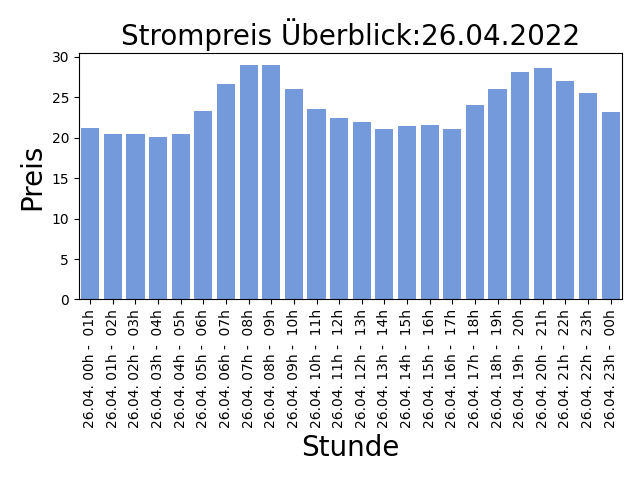
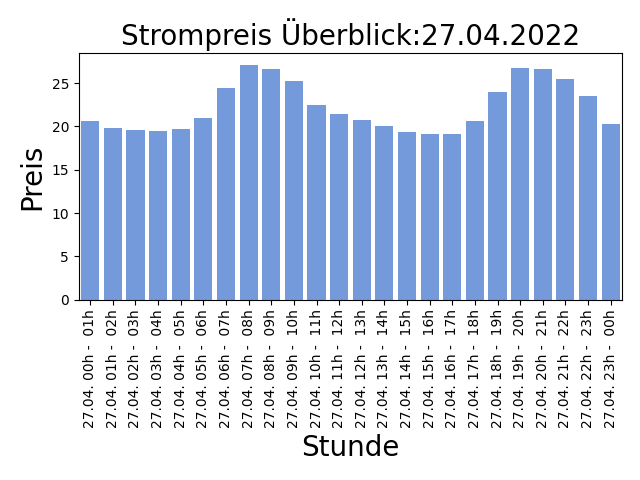
AUTOMATIC UPDATE PRICE LIST: 2022-04-26-14:30:05

diff --git a/README.md b/README.md
@@ -1,5 +1,5 @@
 
-## Strompreise für den 26.04.2022
+## Strompreise für den 27.04.2022
 
 Niedrige Preise deuten auf viel Sonnen und Windenergieerzeugung hin, ein hoher Anteil an erneuerbaren Energien bedeuted weniger CO2 Verbrauch!
 
@@ -7,31 +7,31 @@ Niedrige Preise deuten auf viel Sonnen und Windenergieerzeugung hin, ein hoher A
 
 | Stunde | Preis in Cent/kWh |
 |---|---|
-| 26.04. 00h -  01h | 21.253999999999998 | 
-| 26.04. 01h -  02h | 20.500999999999998 | 
-| 26.04. 02h -  03h | 20.459 | 
-| **26.04. 03h -  04h** | **20.107** | 
-| 26.04. 04h -  05h | 20.416 | 
-| 26.04. 05h -  06h | 23.294999999999998 | 
-| 26.04. 06h -  07h | 26.651999999999997 | 
-| 26.04. 07h -  08h | 29.0 | 
-| 26.04. 08h -  09h | 29.0 | 
-| 26.04. 09h -  10h | 26.048000000000002 | 
-| 26.04. 10h -  11h | 23.588 | 
-| 26.04. 11h -  12h | 22.428 | 
-| 26.04. 12h -  13h | 21.941 | 
-| 26.04. 13h -  14h | 21.049 | 
-| 26.04. 14h -  15h | 21.419 | 
-| 26.04. 15h -  16h | 21.541999999999998 | 
-| 26.04. 16h -  17h | 21.103 | 
-| 26.04. 17h -  18h | 23.993000000000002 | 
-| 26.04. 18h -  19h | 26.063 | 
-| 26.04. 19h -  20h | 28.1 | 
-| 26.04. 20h -  21h | 28.676 | 
-| 26.04. 21h -  22h | 27.000999999999998 | 
-| 26.04. 22h -  23h | 25.5 | 
-| 26.04. 23h -  00h | 23.191 | 
+| 27.04. 00h -  01h | 20.672 | 
+| 27.04. 01h -  02h | 19.801 | 
+| 27.04. 02h -  03h | 19.636000000000003 | 
+| 27.04. 03h -  04h | 19.453 | 
+| 27.04. 04h -  05h | 19.750999999999998 | 
+| 27.04. 05h -  06h | 20.994 | 
+| 27.04. 06h -  07h | 24.419999999999998 | 
+| 27.04. 07h -  08h | 27.101 | 
+| 27.04. 08h -  09h | 26.598000000000003 | 
+| 27.04. 09h -  10h | 25.274 | 
+| 27.04. 10h -  11h | 22.522 | 
+| 27.04. 11h -  12h | 21.412 | 
+| 27.04. 12h -  13h | 20.766 | 
+| 27.04. 13h -  14h | 20.062 | 
+| 27.04. 14h -  15h | 19.322 | 
+| **27.04. 15h -  16h** | **19.096** | 
+| 27.04. 16h -  17h | 19.134999999999998 | 
+| 27.04. 17h -  18h | 20.649 | 
+| 27.04. 18h -  19h | 23.931 | 
+| 27.04. 19h -  20h | 26.79 | 
+| 27.04. 20h -  21h | 26.633 | 
+| 27.04. 21h -  22h | 25.494 | 
+| 27.04. 22h -  23h | 23.533 | 
+| 27.04. 23h -  00h | 20.256999999999998 | 
 
 Preise der EPEX Spot ® Strombörse (neue Preise werden täglich um 14:00 veröffentlicht für den kompletten nächsten Tag).
 
-letzte Aktualisierung:25.04.2022 14:30
+letzte Aktualisierung:26.04.2022 14:30
